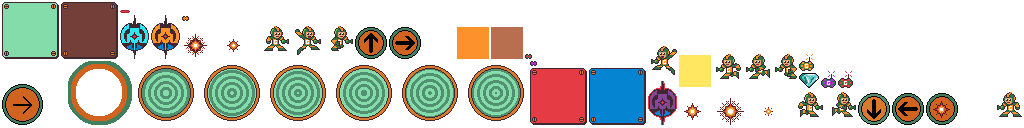
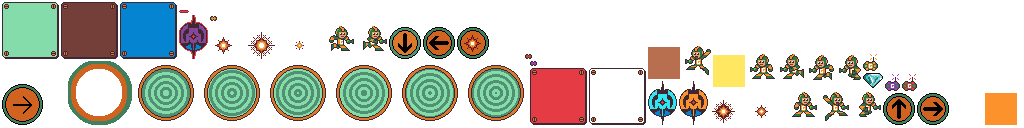
Add invisible platform type
The player can't see or land on this platform, but enemies can spawn on it

Changed region(s): [[0.5625, 0.3438, 1.0, 1.0], [0.0938, 0.0, 0.5312, 0.4688]]

diff --git a/core/src/main/java/com/sixmoney/gigagal/entities/GigaGal.java b/core/src/main/java/com/sixmoney/gigagal/entities/GigaGal.java
@@ -132,10 +132,7 @@ public class GigaGal {
             }
 
             for (Platform platform : platforms) {
-                // First check if we are on platform to update all platform states
-                platform.hasPlayer = false;
-
-                // Then checks for move through platforms
+                // Check for move through solid platforms
                 if (platform.solid && gigagal_bounding_box.overlaps(new Rectangle(platform.left, platform.bottom, platform.width, platform.height - 1))) {
                     if (velocity.y > 0) {
                         velocity.y = 0;
@@ -167,10 +164,12 @@ public class GigaGal {
                         if (!landed_flag) {
                             canDrop = platform.droppable;
                             bounce = platform.bounce;
-                            jumpState = JumpState.GROUNDED;
-                            velocity.y = 0;
-                            velocity.x = 0;
-                            position.y = platform.top + Constants.GIGAGAL_EYE_HEIGHT;
+                            if (!platform.invisible) {
+                                jumpState = JumpState.GROUNDED;
+                                velocity.y = 0;
+                                velocity.x = 0;
+                                position.y = platform.top + Constants.GIGAGAL_EYE_HEIGHT;
+                            }
                             landed_flag = true;
                         }
                         if (canDrop && !platform.droppable) {
@@ -365,7 +364,7 @@ public class GigaGal {
         if ((position_last_frame.y - Constants.GIGAGAL_EYE_HEIGHT >= platform.top &&
                 position.y - Constants.GIGAGAL_EYE_HEIGHT <= platform.top) ||
                 (position_last_frame.y - Constants.GIGAGAL_EYE_HEIGHT == platform.top &&
-                        position.y - Constants.GIGAGAL_EYE_HEIGHT == platform.top)) {
+                position.y - Constants.GIGAGAL_EYE_HEIGHT == platform.top)) {
             float left_toe = position.x - Constants.GIGAGAL_STANCE_WIDTH;
             float right_toe = position.x + Constants.GIGAGAL_STANCE_WIDTH;
 

diff --git a/core/src/main/java/com/sixmoney/gigagal/utils/LevelLoader.java b/core/src/main/java/com/sixmoney/gigagal/utils/LevelLoader.java
@@ -11,6 +11,7 @@ import com.sixmoney.gigagal.Level;
 import com.sixmoney.gigagal.entities.EnemyBig;
 import com.sixmoney.gigagal.entities.EnemyRanged;
 import com.sixmoney.gigagal.entities.PlatformBounce;
+import com.sixmoney.gigagal.entities.PlatformLight;
 import com.sixmoney.gigagal.entities.PowerupBig;
 import com.sixmoney.gigagal.entities.Diamond;
 import com.sixmoney.gigagal.entities.Enemy;
@@ -73,6 +74,8 @@ public class LevelLoader {
                 platform = new PlatformMedium(x, y + height, width, height, zIndex);
             } else if (platformObject.getString(Constants.LEVEL_IMAGENAME_KEY).equals(Constants.PLATFORM_BOUNCE)) {
                 platform = new PlatformBounce(x, y + height, width, height, zIndex);
+            } else if (platformObject.getString(Constants.LEVEL_IMAGENAME_KEY).equals(Constants.PLATFORM_LIGHT)) {
+                platform = new PlatformLight(x, y + height, width, height, zIndex);
             } else {
                 platform = new Platform(x, y + height, width, height, zIndex);
             }

diff --git a/core/src/main/java/com/sixmoney/gigagal/entities/PlatformLight.java b/core/src/main/java/com/sixmoney/gigagal/entities/PlatformLight.java
@@ -1,0 +1,19 @@
+package com.sixmoney.gigagal.entities;
+
+import com.badlogic.gdx.graphics.g2d.SpriteBatch;
+
+public class PlatformLight extends Platform {
+
+    public PlatformLight(float left, float top, float width, float height) {
+        super(left, top, width, height);
+        invisible = true;
+    }
+
+    public PlatformLight(float left, float top, float width, float height, int zIndex) {
+        super(left, top, width, height, zIndex);
+        invisible = true;
+    }
+
+    public void render(SpriteBatch spriteBatch) {
+    }
+}

diff --git a/core/src/main/java/com/sixmoney/gigagal/entities/Platform.java b/core/src/main/java/com/sixmoney/gigagal/entities/Platform.java
@@ -14,6 +14,7 @@ public class Platform implements Comparable<Platform> {
     public boolean solid;
     public boolean droppable;
     public boolean bounce;
+    public boolean invisible;
     public boolean hasPlayer;
     public float playerPosition;
 
@@ -32,6 +33,7 @@ public class Platform implements Comparable<Platform> {
         solid = false;
         droppable = true;
         bounce = false;
+        invisible = false;
         hasPlayer = false;
         playerPosition = 0;
     }

diff --git a/core/src/main/java/com/sixmoney/gigagal/utils/Constants.java b/core/src/main/java/com/sixmoney/gigagal/utils/Constants.java
@@ -35,6 +35,7 @@ public class Constants {
     public static final String PLATFORM_HARD = "platform-hard";
     public static final String PLATFORM_MEDIUM = "platform-medium";
     public static final String PLATFORM_BOUNCE = "platform-bounce";
+    public static final String PLATFORM_LIGHT = "platform-light";
     public static final String ENEMY = "enemy";
     public static final String ENEMY2 = "enemy2";
     public static final String ENEMY3 = "enemy3";
